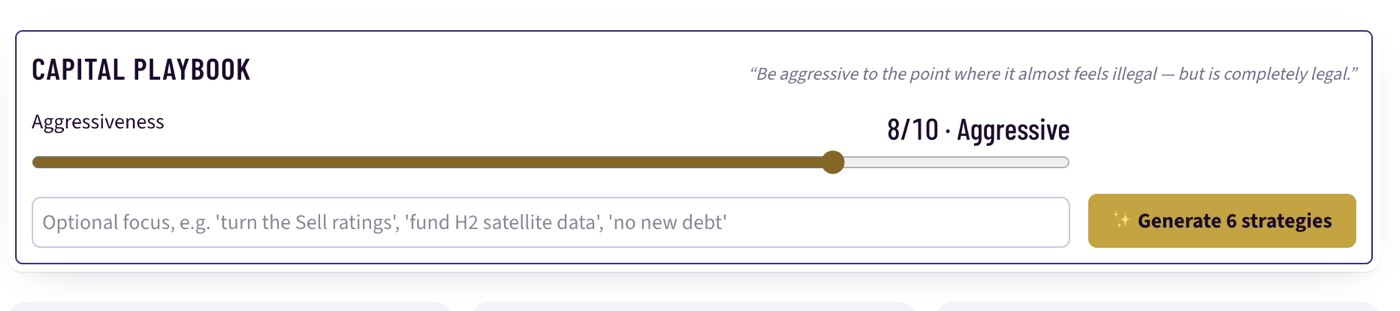
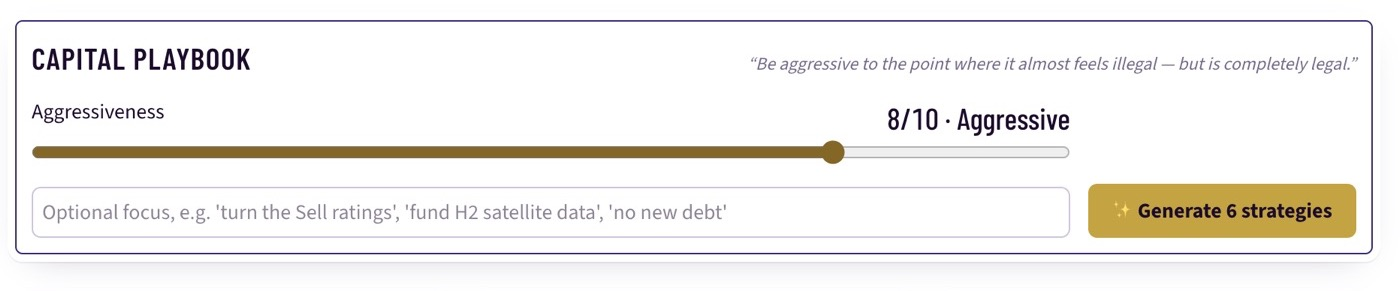
Deck appendix: PowerPoint export uses the team's hand-made layout
Image and caption positions copied from the reformatted deck; capital playbook shot cropped to match.

diff --git a/lib/tool-slides.ts b/lib/tool-slides.ts
@@ -1,31 +1,38 @@
 // Appendix slides for the Shareholder Day deck: how the team runs Flying Dragon with the Mgt Tool.
 // Fixed (not AI-written) and not counted in the 3-minute speaking time. Images live in
 // public/deck/tool/ (web copies of the screenshots in docs/tool-in-use/).
-export type ToolShot = { src: string; w: number; h: number; caption: string };
-export type ToolSlide = { headline: string; lede: string; shots: ToolShot[]; tall?: boolean };
+// box / cap: where the image and its caption sit on the PowerPoint slide (inches, 13.33 x 7.5),
+// as the team laid them out by hand; cap null = no caption on the slide.
+type Box = [x: number, y: number, w: number, h: number];
+export type ToolShot = { src: string; w: number; h: number; caption: string; box: Box; cap: Box | null };
+export type ToolSlide = { headline: string; lede: string; shots: ToolShot[]; tall?: boolean; ledeBox: Box; footerLeft: boolean };
 
-const shot = (name: string, w: number, h: number, caption: string): ToolShot => ({ src: `/deck/tool/${name}.jpg`, w, h, caption });
+const shot = (name: string, w: number, h: number, caption: string, box: Box, cap: Box | null): ToolShot => ({ src: `/deck/tool/${name}.jpg`, w, h, caption, box, cap });
 
 export const TOOL_SLIDES: ToolSlide[] = [
   {
     headline: "How we run Flying Dragon: one AI-assisted desk for every role",
     lede: "Each role works from the same live workbook. The copilot proposes; the team accepts or rejects; a critic audits every number before it is saved.",
     tall: true,
+    ledeBox: [0.65, 1.33, 12, 0.29],
+    footerLeft: true,
     shots: [
-      shot("copilot-workbook-audit", 832, 1636, "The copilot audits our workbook and queues exact cell fixes, nothing changes until we accept"),
-      shot("strategy-knob", 1400, 583, "One knob sets our H1 / H2 / H3 investment mix; every evaluation uses it"),
-      shot("analyst-rating-goal", 1400, 473, "Our analyst rating goal, priced in market cap"),
-      shot("capital-playbook-dial", 1400, 311, "The capital playbook: aggressive, but completely legal"),
+      shot("copilot-workbook-audit", 832, 1636, "The copilot audits our workbook and queues exact cell fixes, nothing changes until we accept", [0.48, 1.85, 2.34, 4.6], [0, 6.43, 3.3, 0.4]),
+      shot("strategy-knob", 1400, 583, "One knob sets our H1 / H2 / H3 investment mix; every evaluation uses it", [3.02, 1.78, 4.63, 1.93], [3.45, 3.71, 3.94, 0.4]),
+      shot("analyst-rating-goal", 1400, 473, "Our analyst rating goal, priced in market cap", [7.75, 1.78, 5.43, 1.83], [9.24, 3.63, 2.97, 0.25]),
+      shot("capital-playbook-dial", 1400, 291, "The capital playbook: aggressive, but completely legal", [3.58, 4.15, 9.25, 1.93], [3.61, 6.06, 8.3, 0.25]),
     ],
   },
   {
     headline: "From research to a funded plan, year by year",
     lede: "Funding ideas come from real precedents and the game materials, get sized against the market-cap formula, and land in a year-by-year plan the whole team can see.",
+    ledeBox: [0.63, 1.22, 12.51, 0.29],
+    footerLeft: false,
     shots: [
-      shot("top-funding-plays", 1400, 994, "Top funding plays, ranked, each with a real precedent"),
-      shot("vendor-partner-financing", 1400, 653, "Every idea: fit for us, risks, and its source"),
-      shot("year-by-year-plan", 918, 419, "Strategies placed by year; the projection follows"),
-      shot("lever-planner-how-we-pay-for-it", 1400, 368, "How we pay for it: profit, borrowing capacity, bond cost"),
+      shot("top-funding-plays", 1400, 994, "Top funding plays, ranked, each with a real precedent", [1.04, 1.56, 4.27, 3.03], null),
+      shot("vendor-partner-financing", 1400, 653, "Every idea: fit for us, risks, and its source", [6.4, 1.56, 5.9, 2.75], [6.64, 4.25, 5.8, 0.25]),
+      shot("year-by-year-plan", 918, 419, "Strategies placed by year; the projection follows", [0.99, 4.72, 5.24, 2.39], [0.5, 7.13, 5.8, 0.25]),
+      shot("lever-planner-how-we-pay-for-it", 1400, 368, "How we pay for it: profit, borrowing capacity, bond cost", [6.47, 4.99, 5.9, 1.55], [6.52, 6.66, 5.8, 0.25]),
     ],
   },
 ];

diff --git a/app/api/deck/pptx/route.ts b/app/api/deck/pptx/route.ts
@@ -124,23 +124,18 @@ export async function GET() {
     slide.addNotes("Appendix: not part of the 3:00. Show if asked how we run the company.");
     slide.background = { color: "FFFFFF" };
     slide.addShape(pptx.ShapeType.rect, { x: 0, y: 0, w: 13.33, h: 0.12, fill: { color: GOLD }, line: { color: GOLD } });
-    slide.addText("APPENDIX · HOW WE USE THE MGT TOOL", { x: 0.6, y: 0.3, w: 8, h: 0.35, fontFace: FONT, fontSize: 11, color: "8A6414", bold: true, charSpacing: 2 });
-    slide.addText(t.headline, { x: 0.6, y: 0.62, w: 12.1, h: 0.6, fontFace: FONT, fontSize: 24, color: INK, bold: true });
-    slide.addText(t.lede, { x: 0.6, y: 1.22, w: 12.1, h: 0.5, fontFace: FONT, fontSize: 12, color: GREY });
-    // Fit each screenshot inside its box (keeps the aspect ratio), caption underneath.
-    const place = (sh: ToolShot, x: number, y: number, w: number, h: number) => {
-      const ih = h - 0.35, r = Math.min(w / sh.w, ih / sh.h), iw = sh.w * r, ihh = sh.h * r;
+    slide.addText("APPENDIX · HOW WE USE THE MGT TOOL", { x: 0.65, y: 0.34, w: 7.9, h: 0.26, fontFace: FONT, fontSize: 11, color: "8A6414", bold: true, charSpacing: 2 });
+    slide.addText(t.headline, { x: 0.65, y: 0.68, w: 12, h: 0.48, fontFace: FONT, fontSize: 24, color: INK, bold: true });
+    slide.addText(t.lede, { x: t.ledeBox[0], y: t.ledeBox[1], w: t.ledeBox[2], h: t.ledeBox[3], fontFace: FONT, fontSize: 12, color: GREY });
+    // Images and captions where the team placed them by hand (lib/tool-slides.ts).
+    t.shots.forEach((sh: ToolShot) => {
       const data = readFileSync(path.join(process.cwd(), "public", sh.src)).toString("base64");
-      slide.addImage({ data: `image/jpeg;base64,${data}`, x: x + (w - iw) / 2, y, w: iw, h: ihh });
-      slide.addText(sh.caption, { x, y: y + ihh + 0.03, w, h: 0.3, fontFace: FONT, fontSize: 10, color: GREY, align: "center" });
-    };
-    const top = 1.85, H = 4.95;
-    if (t.tall) {
-      place(t.shots[0], 0.6, top, 3.4, H);
-      t.shots.slice(1).forEach((sh, i) => place(sh, 4.3, top + i * (H / 3), 8.4, H / 3));
-    } else t.shots.forEach((sh, i) => place(sh, 0.6 + (i % 2) * 6.2, top + Math.floor(i / 2) * (H / 2), 5.9, H / 2));
-    slide.addText(`Flying Dragon · ${DECK_EVENT}`, { x: 0.6, y: 7.0, w: 6, h: 0.3, fontFace: FONT, fontSize: 9, color: GREY });
-    slide.addText(`Appendix   ${k}`, { x: 6.7, y: 7.0, w: 6, h: 0.3, fontFace: FONT, fontSize: 9, color: GREY, align: "right" });
+      const [x, y, w, h] = sh.box;
+      slide.addImage({ data: `image/jpeg;base64,${data}`, x, y, w, h });
+      if (sh.cap) slide.addText(sh.caption, { x: sh.cap[0], y: sh.cap[1], w: sh.cap[2], h: sh.cap[3], fontFace: FONT, fontSize: 10, color: GREY, align: "center" });
+    });
+    if (t.footerLeft) slide.addText(`Flying Dragon · ${DECK_EVENT}`, { x: 0.65, y: 7.03, w: 5.9, h: 0.23, fontFace: FONT, fontSize: 9, color: GREY });
+    slide.addText(`Appendix   ${k}`, { x: 6.75, y: 7.03, w: 5.9, h: 0.23, fontFace: FONT, fontSize: 9, color: GREY, align: "right" });
   });
 
   const buf = (await pptx.write({ outputType: "nodebuffer" })) as Buffer;
